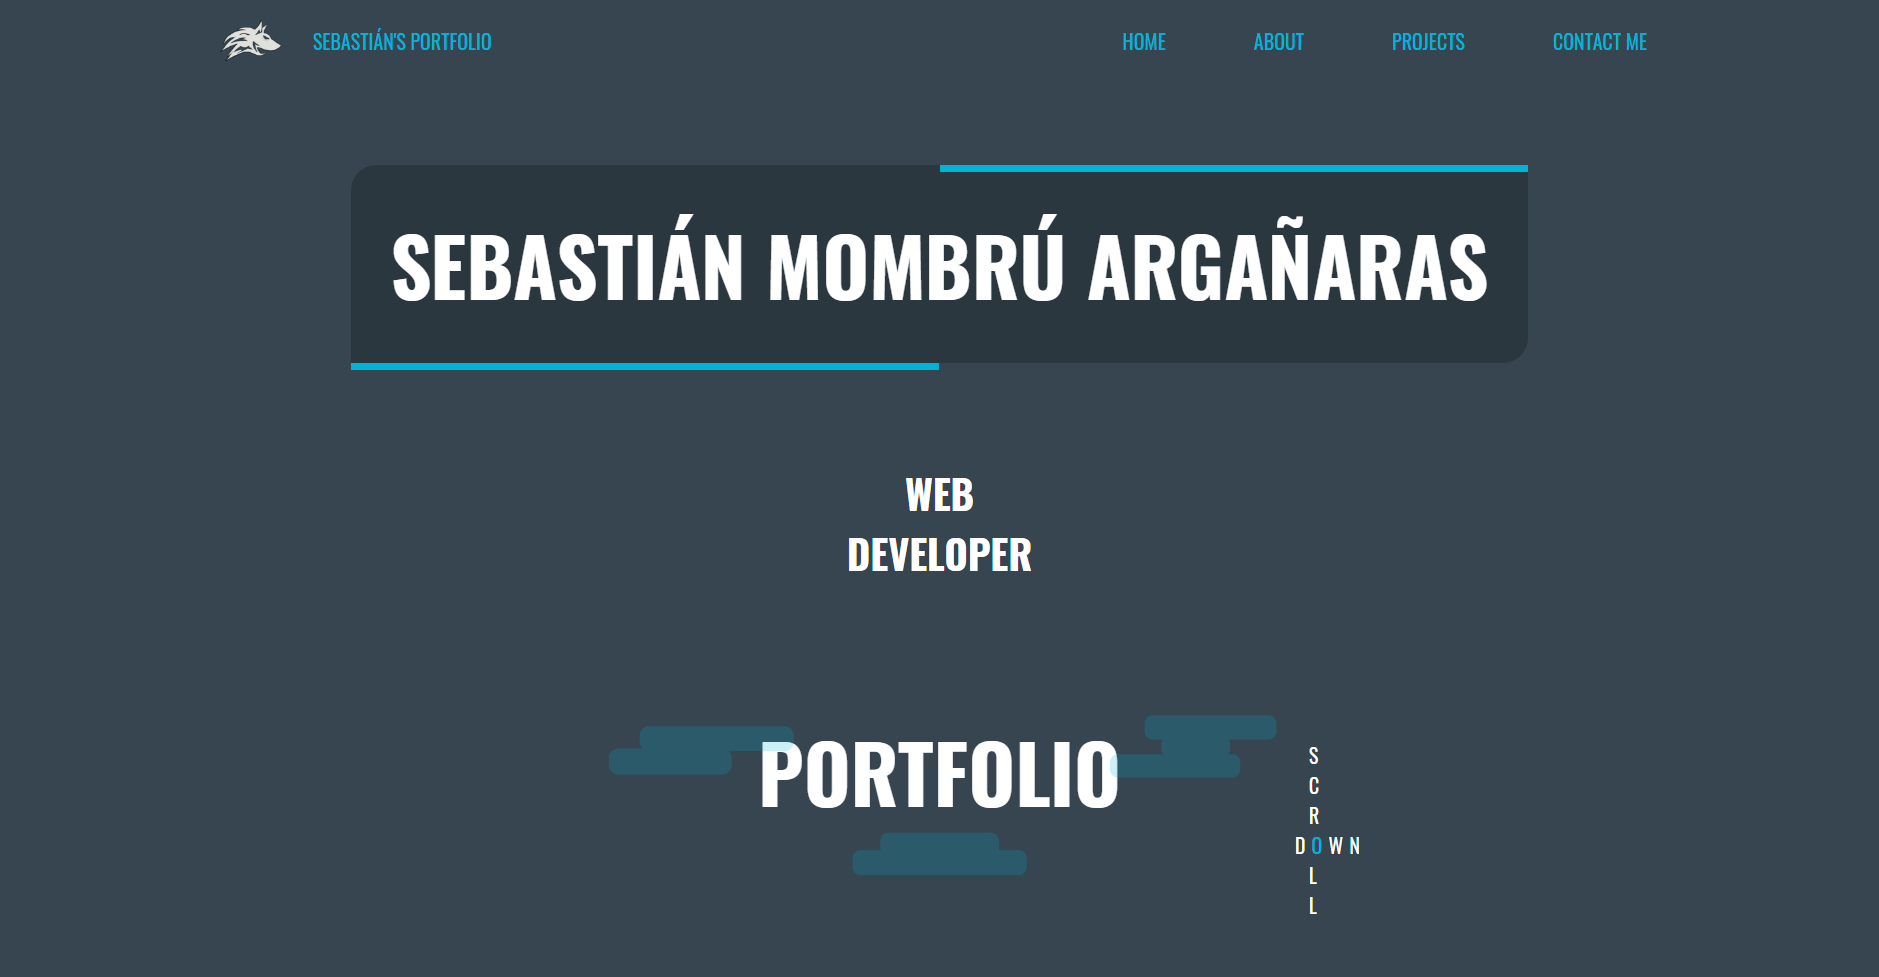
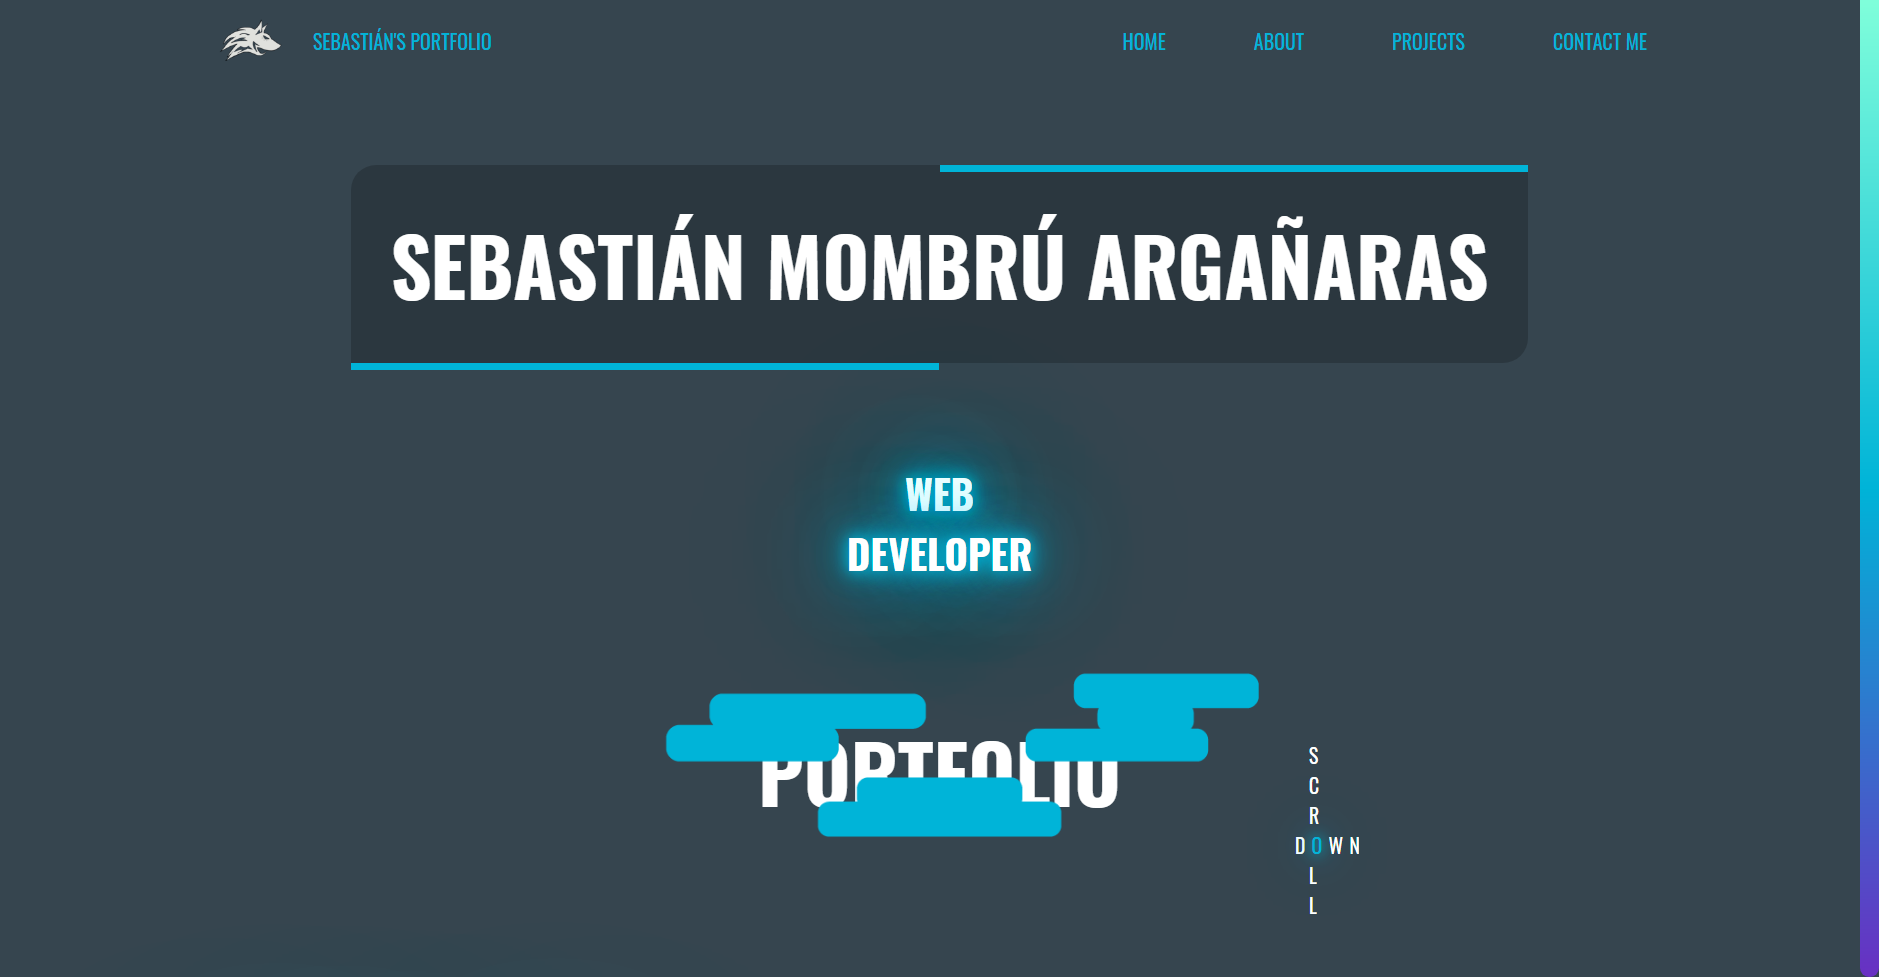
NOMBRE: TIENE ESTILOS, TIENE MQ PROFESION: FALTA ESTILOS, TIENE MQ PORTFOLIO: TIENE ESTILOS, TIENE MQ NUBES: TIENE ESTILOS, TIENE CAMBIAR MQ SD: TIENE ESTILOS, TIENE MQ ABOUT ME: TIENE ESTILOS, TIENE MQ SKILLS: TIENE ESTILOS, TIENE MQ PROJECTS: TIENE ESTILOS, TIENE MQ CONTACTO: TIENE ESTILOS, TIENE 

diff --git a/css/main.css b/css/main.css
@@ -41,8 +41,7 @@
 }
 
 .main-header .nav-links .nav-link {
-  transition: opacity 0.4s ease-in-out,
-    transform 0.6s cubic-bezier(0.175, 0.885, 0.32, 1.275);
+  transition: opacity 0.4s ease-in-out, transform 0.6s cubic-bezier(0.175, 0.885, 0.32, 1.275);
 }
 
 .main-header .nav-links .nav-link:nth-of-type(2) {
@@ -83,8 +82,7 @@
   border-radius: 4px;
 }
 
-.main-header .menu-icon_line::before,
-.main-header .menu-icon_line::after {
+.main-header .menu-icon_line::before, .main-header .menu-icon_line::after {
   content: "";
   position: absolute;
   height: 100%;
@@ -121,9 +119,7 @@
   color: #fff;
 }
 
-.main-header.scrolled .menu-icon_line,
-.main-header.scrolled .menu-icon_line::before,
-.main-header.scrolled .menu-icon_line::after {
+.main-header.scrolled .menu-icon_line, .main-header.scrolled .menu-icon_line::before, .main-header.scrolled .menu-icon_line::after {
   background: #fff;
 }
 
@@ -155,8 +151,7 @@
   margin-top: 10vh;
 }
 
-.main-name h1::before,
-.main-name h1::after {
+.main-name h1::before, .main-name h1::after {
   content: "";
   position: absolute;
   top: 0;
@@ -182,6 +177,7 @@
   margin: 0 35vw;
   border-radius: 20px 0;
   bottom: 5%;
+  text-shadow: 0 0 10px #00b4d8, 0 0 20px #00b4d8, 0 0 40px #00b4d8, 0 0 80px #00b4d8, 0 0 160px #00b4d8;
 }
 
 .portfolio {
@@ -215,7 +211,7 @@
 
 .portfolio .box-1 .cloud.one {
   position: absolute;
-  bottom: 10%;
+  top: 0%;
 }
 
 .portfolio .box-1 .cloud.two {
@@ -257,6 +253,7 @@
 .portfolio .down span {
   color: #00b4d8;
   background: none;
+  text-shadow: 0 0 10px #00b4d8, 0 0 20px #00b4d8, 0 0 40px #00b4d8, 0 0 80px #00b4d8, 0 0 160px #00b4d8;
 }
 
 .s2 {
@@ -288,6 +285,7 @@
   right: 10%;
   text-transform: uppercase;
   font-weight: normal;
+  text-shadow: 0 0 10px #00b4d8, 0 0 20px #00b4d8, 0 0 40px #00b4d8, 0 0 80px #00b4d8, 0 0 160px #00b4d8;
 }
 
 .s2 .about-page .about-me .span-div {
@@ -309,8 +307,7 @@
   height: 5px;
 }
 
-.s2 .about-page .about-me .span-div .span-line::before,
-.s2 .about-page .about-me .span-div .span-line::after {
+.s2 .about-page .about-me .span-div .span-line::before, .s2 .about-page .about-me .span-div .span-line::after {
   content: "";
   display: block;
   position: absolute;
@@ -380,6 +377,7 @@
   transform: translateX(-15%);
   color: #fff;
   font-size: 3rem;
+  text-shadow: 0 0 10px #00b4d8, 0 0 20px #00b4d8, 0 0 40px #00b4d8, 0 0 80px #00b4d8, 0 0 160px #00b4d8;
 }
 
 .s3 .container-3 .skill-container .skills {
@@ -503,6 +501,7 @@
   top: 5%;
   text-transform: uppercase;
   font-weight: normal;
+  text-shadow: 0 0 10px #00b4d8, 0 0 20px #00b4d8, 0 0 40px #00b4d8, 0 0 80px #00b4d8, 0 0 160px #00b4d8;
 }
 
 .projects-page .projects .span-div {
@@ -522,12 +521,11 @@
   height: 5px;
 }
 
-.projects-page .projects .span-div .span-line::before,
-.projects-page .projects .span-div .span-line::after {
+.projects-page .projects .span-div .span-line::before, .projects-page .projects .span-div .span-line::after {
   content: "";
   display: block;
   position: absolute;
-  top: 0%;
+  top: 40%;
   height: 30%;
   width: 50%;
   border-radius: 2px;
@@ -601,6 +599,7 @@
   color: #fff;
   text-align: center;
   font-size: 1.5em;
+  text-shadow: 0 0 10px #00b4d8, 0 0 20px #00b4d8, 0 0 40px #00b4d8, 0 0 80px #00b4d8, 0 0 160px #00b4d8;
 }
 
 .projects-page .card-container .card:hover .face.face1 {
@@ -670,6 +669,7 @@
   right: 10%;
   text-transform: uppercase;
   font-weight: normal;
+  text-shadow: 0 0 10px #00b4d8, 0 0 20px #00b4d8, 0 0 40px #00b4d8, 0 0 80px #00b4d8, 0 0 160px #00b4d8;
 }
 
 .contact-page .row100 {
@@ -780,15 +780,15 @@ input[type="submit"] {
   cursor: pointer;
   outline: none;
   background: #00b4d8;
-  color: #000;
+  color: black;
   font-size: 18px;
   border-radius: 2px;
   transition: 0.3s;
 }
 
 input[type="submit"]:hover {
-  color: #fff;
-  background: #1a27d6;
+  color: #000;
+  text-shadow: 0 0 10px white, 0 0 20px white, 0 0 40px white, 0 0 80px white, 0 0 160px white;
 }
 
 footer {
@@ -1037,8 +1037,7 @@ footer .fa-github {
   .main-header .menu-btn:checked ~ .nav-links .nav-link {
     opacity: 1;
     transform: translateX(0);
-    transition: opacity 0.4s ease-in-out,
-      transform 0.6s cubic-bezier(0.175, 0.885, 0.32, 1.275);
+    transition: opacity 0.4s ease-in-out, transform 0.6s cubic-bezier(0.175, 0.885, 0.32, 1.275);
   }
   .main-header .menu-btn:checked ~ .nav-links .nav-link:nth-of-type(1) {
     transition-delay: 0.7s;
@@ -1105,8 +1104,7 @@ footer .fa-github {
   .projects-page .projects .span-div {
     height: 15%;
   }
-  .projects-page .projects .span-div .span-line::before,
-  .projects-page .projects .span-div .span-line::after {
+  .projects-page .projects .span-div .span-line::before, .projects-page .projects .span-div .span-line::after {
     content: "";
     display: block;
     position: absolute;
@@ -1146,8 +1144,7 @@ footer .fa-github {
     width: 400px;
     height: 5px;
   }
-  .s2 .about-page .about-me .span-div .span-line::before,
-  .s2 .about-page .about-me .span-div .span-line::after {
+  .s2 .about-page .about-me .span-div .span-line::before, .s2 .about-page .about-me .span-div .span-line::after {
     content: "";
     display: block;
     position: absolute;
@@ -1190,8 +1187,7 @@ footer .fa-github {
   .projects-page .projects h2 {
     font-size: 3rem;
   }
-  .projects-page .projects .span-div .span-line::before,
-  .projects-page .projects .span-div .span-line::after {
+  .projects-page .projects .span-div .span-line::before, .projects-page .projects .span-div .span-line::after {
     content: "";
     display: block;
     position: absolute;
@@ -1217,8 +1213,7 @@ footer .fa-github {
   .projects-page .projects h2 {
     font-size: 2.5rem;
   }
-  .projects-page .projects .span-div .span-line::before,
-  .projects-page .projects .span-div .span-line::after {
+  .projects-page .projects .span-div .span-line::before, .projects-page .projects .span-div .span-line::after {
     content: "";
     display: block;
     position: absolute;
@@ -1244,8 +1239,7 @@ footer .fa-github {
   .projects-page .projects h2 {
     font-size: 2.2rem;
   }
-  .projects-page .projects .span-div .span-line::before,
-  .projects-page .projects .span-div .span-line::after {
+  .projects-page .projects .span-div .span-line::before, .projects-page .projects .span-div .span-line::after {
     content: "";
     display: block;
     position: absolute;

diff --git a/css/_projects.scss b/css/_projects.scss
@@ -21,6 +21,11 @@
       top: 5%;
       text-transform: uppercase;
       font-weight: normal;
+      text-shadow: 0 0 10px rgba($color: $azul_principal, $alpha: 1),
+        0 0 20px rgba($color: $azul_principal, $alpha: 1),
+        0 0 40px rgba($color: $azul_principal, $alpha: 1),
+        0 0 80px rgba($color: $azul_principal, $alpha: 1),
+        0 0 160px rgba($color: $azul_principal, $alpha: 1);
     }
     .span-div {
       position: relative;
@@ -43,7 +48,7 @@
           content: "";
           display: block;
           position: absolute;
-          top: 0%;
+          top: 40%;
           height: 30%;
           width: 50%;
           border-radius: 2px;
@@ -117,6 +122,11 @@
         color: #fff;
         text-align: center;
         font-size: 1.5em;
+        text-shadow: 0 0 10px rgba($color: $azul_principal, $alpha: 1),
+          0 0 20px rgba($color: $azul_principal, $alpha: 1),
+          0 0 40px rgba($color: $azul_principal, $alpha: 1),
+          0 0 80px rgba($color: $azul_principal, $alpha: 1),
+          0 0 160px rgba($color: $azul_principal, $alpha: 1);
       }
     }
   }

diff --git a/css/_contact_me.scss b/css/_contact_me.scss
@@ -13,6 +13,11 @@
     right: 10%;
     text-transform: uppercase;
     font-weight: normal;
+    text-shadow: 0 0 10px rgba($color: $azul_principal, $alpha: 1),
+      0 0 20px rgba($color: $azul_principal, $alpha: 1),
+      0 0 40px rgba($color: $azul_principal, $alpha: 1),
+      0 0 80px rgba($color: $azul_principal, $alpha: 1),
+      0 0 160px rgba($color: $azul_principal, $alpha: 1);
   }
 
   .row100 {
@@ -122,13 +127,17 @@ input[type="submit"] {
   cursor: pointer;
   outline: none;
   background: $azul_principal;
-  color: #000;
+  color: rgb(0, 0, 0);
   font-size: 18px;
   border-radius: 2px;
   transition: 0.3s;
 
   &:hover {
-    color: #fff;
-    background: #1a27d6;
+    color: #000;
+    text-shadow: 0 0 10px rgba($color: #fff, $alpha: 1),
+      0 0 20px rgba($color: #fff, $alpha: 1),
+      0 0 40px rgba($color: #fff, $alpha: 1),
+      0 0 80px rgba($color: #fff, $alpha: 1),
+      0 0 160px rgba($color: #fff, $alpha: 1);
   }
 }

diff --git a/css/_main_page.scss b/css/_main_page.scss
@@ -46,6 +46,11 @@
     margin: 0 35vw;
     border-radius: 20px 0;
     bottom: 5%;
+    text-shadow: 0 0 10px rgba($color: $azul_principal, $alpha: 1),
+      0 0 20px rgba($color: $azul_principal, $alpha: 1),
+      0 0 40px rgba($color: $azul_principal, $alpha: 1),
+      0 0 80px rgba($color: $azul_principal, $alpha: 1),
+      0 0 160px rgba($color: $azul_principal, $alpha: 1);
   }
 }
 
@@ -80,7 +85,7 @@
     .cloud {
       &.one {
         position: absolute;
-        bottom: 10%;
+        top: 0%;
       }
 
       &.two {
@@ -117,6 +122,11 @@
     span {
       color: $azul_principal;
       background: none;
+      text-shadow: 0 0 10px rgba($color: $azul_principal, $alpha: 1),
+        0 0 20px rgba($color: $azul_principal, $alpha: 1),
+        0 0 40px rgba($color: $azul_principal, $alpha: 1),
+        0 0 80px rgba($color: $azul_principal, $alpha: 1),
+        0 0 160px rgba($color: $azul_principal, $alpha: 1);
     }
   }
 }

diff --git a/css/_about_me.scss b/css/_about_me.scss
@@ -24,6 +24,11 @@
         right: 10%;
         text-transform: uppercase;
         font-weight: normal;
+        text-shadow: 0 0 10px rgba($color: $azul_principal, $alpha: 1),
+          0 0 20px rgba($color: $azul_principal, $alpha: 1),
+          0 0 40px rgba($color: $azul_principal, $alpha: 1),
+          0 0 80px rgba($color: $azul_principal, $alpha: 1),
+          0 0 160px rgba($color: $azul_principal, $alpha: 1);
       }
 
       .span-div {

diff --git a/css/_skills.scss b/css/_skills.scss
@@ -21,6 +21,11 @@
         transform: translateX(-15%);
         color: #fff;
         font-size: 3rem;
+        text-shadow: 0 0 10px rgba($color: $azul_principal, $alpha: 1),
+          0 0 20px rgba($color: $azul_principal, $alpha: 1),
+          0 0 40px rgba($color: $azul_principal, $alpha: 1),
+          0 0 80px rgba($color: $azul_principal, $alpha: 1),
+          0 0 160px rgba($color: $azul_principal, $alpha: 1);
       }
 
       .skills {
